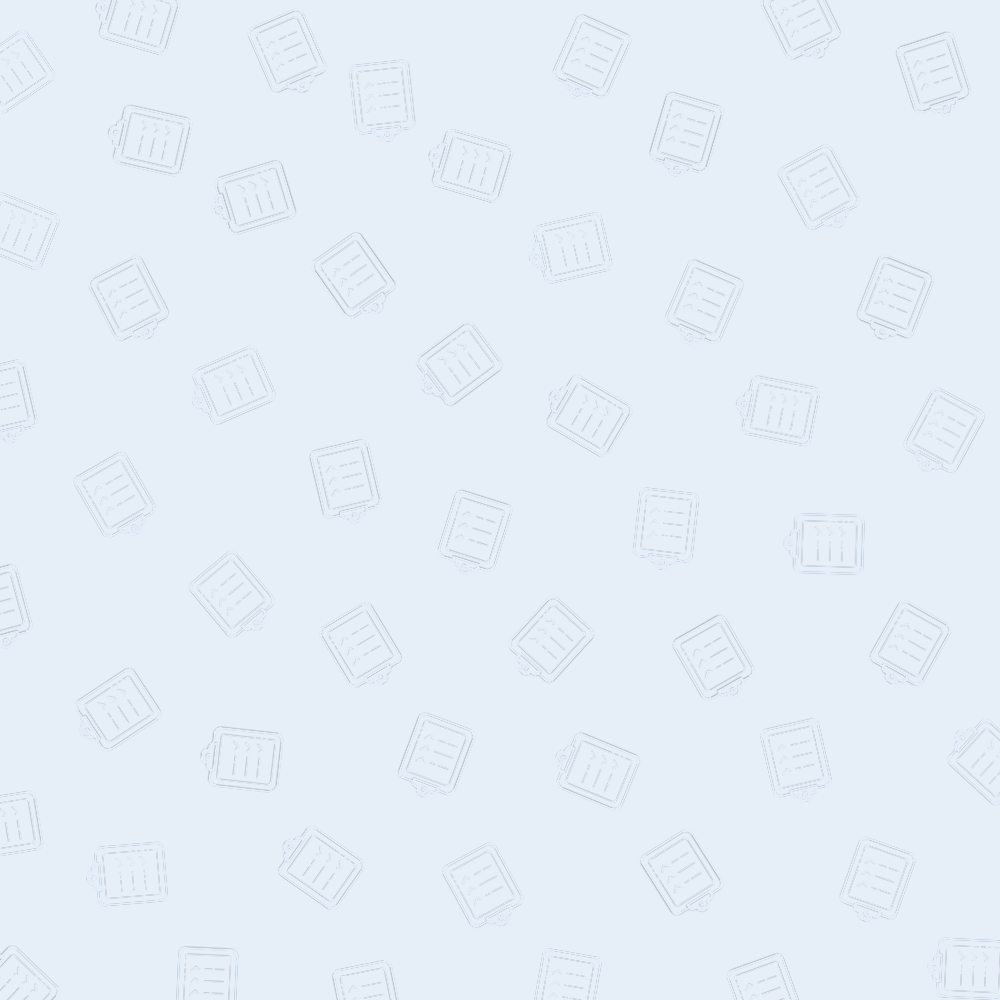
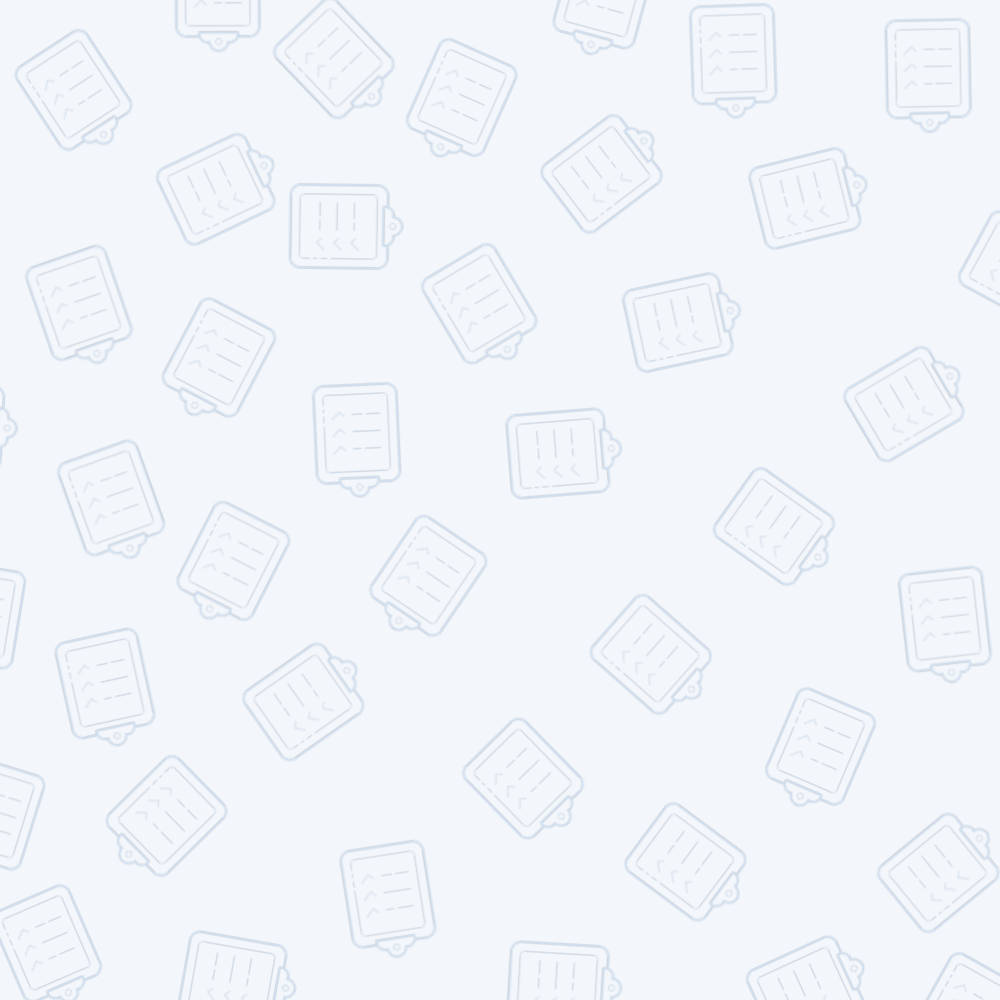
Altered background.png

diff --git a/CEMSproto/bin/application/application.css b/CEMSproto/bin/application/application.css
@@ -77,7 +77,8 @@
 
 /*screen background color*/
 .backgroundColor {
-    -fx-background-color: #e6eef7;
+    /*-fx-background-color: #e6eef7;*/
+    -fx-background-image: url("images/background.png");
 }
 
 /*test area styling (excluding background color)*/
